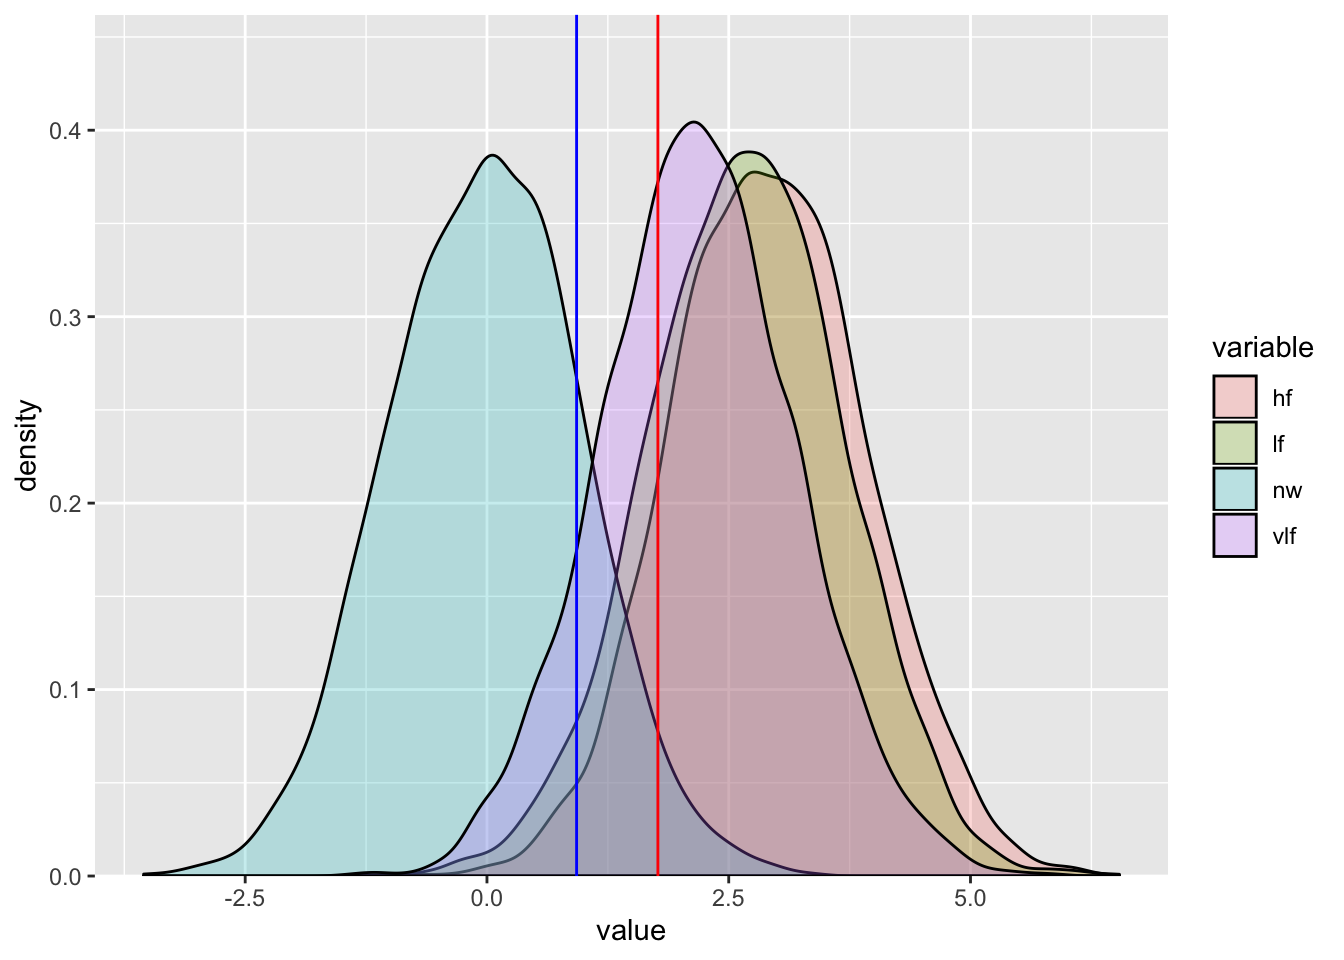
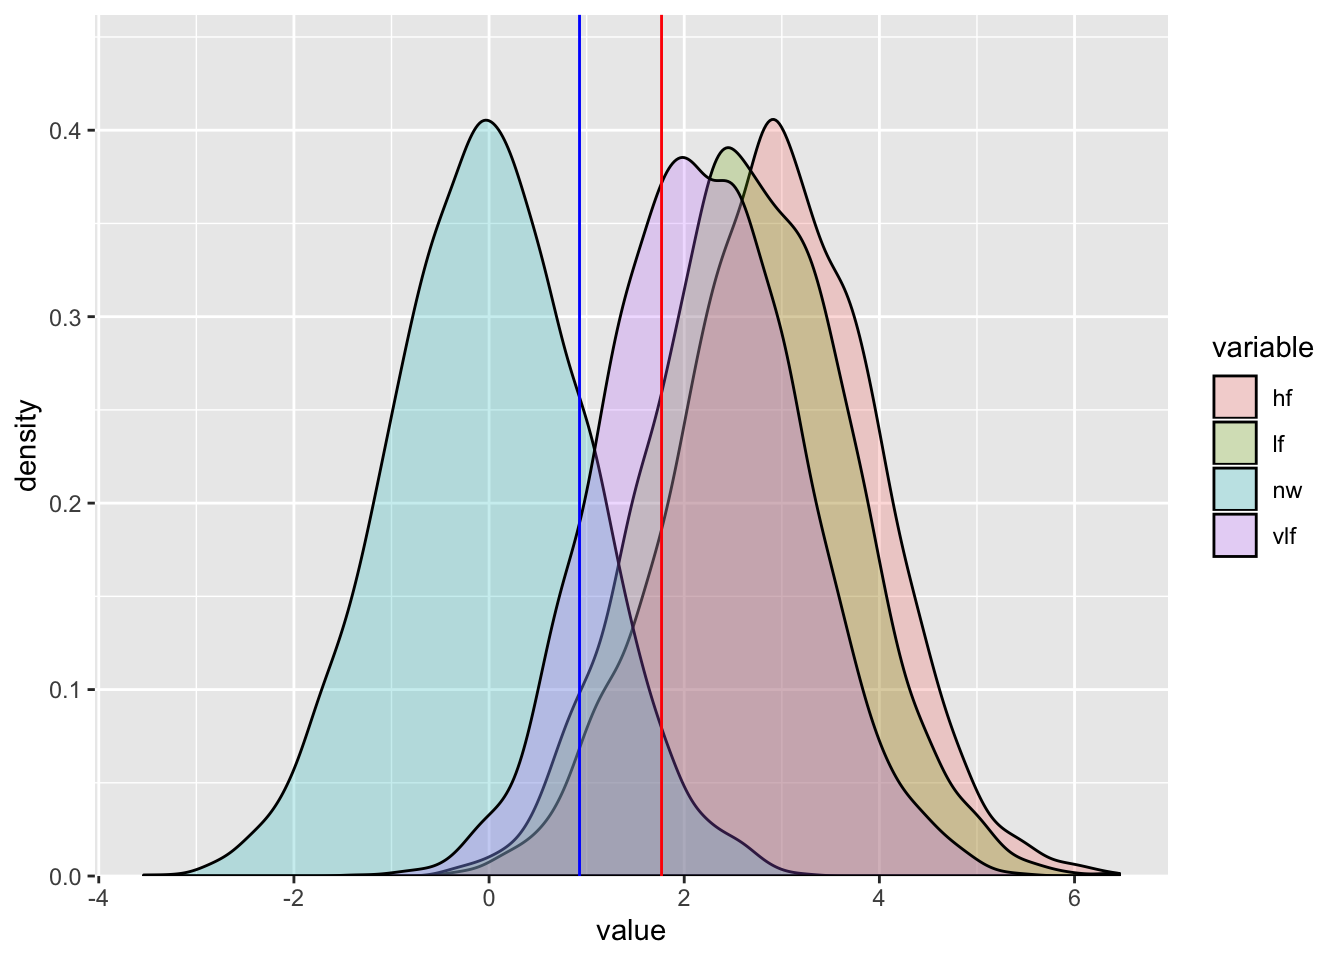
code chuck ref now works. use single commas for file ref 'imgfile.png'

diff --git a/docs/how-to-use-the-pmwg-sampler-signal-detection-theory.html b/docs/how-to-use-the-pmwg-sampler-signal-detection-theory.html
@@ -272,8 +272,20 @@ code > span.in { color: #60a0b0; font-weight: bold; font-style: italic; } /* Inf
 </table>
 <div id="signal-detection-theory" class="section level3">
 <h3><span class="header-section-number">6.1.1</span> Signal Detection Theory</h3>
-<p>We assume you have an understanding of SDT so we’ll jump to an explanation of how we can use SDT in the context of the lexical decision task. We begin with the distributions for <i>non-word</i> and <i>word</i> stimuli. You can think of these two distributions as the ‘noise’ and ‘signal’ curves, respectively. Each distribution represents the evidence for ‘word-likeness’ and they are assumed to be normally distributed. The <i>non-word</i> distribution (or the ‘noise’ distribution) has a mean of 0 and a standard deviation (SD) of 1 (Note: we could estimate SD here, but we will use 1 in this example for simplicity). The mean for each <i>word</i> distribution is unknown at this point, however, we assign a d-prime parameter (i.e. the signal-noise difference between words and non-words) to each distribution (d’<sub>hf</sub>, d’<sub>lf</sub>, d’<sub>vlf</sub>). The second parameter we denote is the criterion (C) parameter i.e. the point at which an individual responds <i>non-word</i> or <i>word</i>. - if the value is above the criterion, - if the value is below the criterion. Given these parameters, one would expect that the “word” distribution would have a higher mean than the non-words, with some partial overlap (for words and non-words which might be difficult to classify). The criterion should then be set somewhere between these means. If a person was biased to respond “word”, they’re criterion would move down. In total, in the simple SDT model, there would be 2 parameters - d’ (the mean of the word distribution) and C (the criterion). <img src="sdt.png" alt="SDT LDT illustration" /></p>
-<p><img src="bookdown-demo_files/figure-html/unnamed-chunk-1-1.png" width="672" /></p>
+<p>We assume you have an understanding of SDT so we’ll jump to an explanation of how we can use SDT in the context of the lexical decision task. We begin with the distributions for <i>non-word</i> and <i>word</i> stimuli. You can think of these two distributions as the ‘noise’ and ‘signal’ curves, respectively. Each distribution represents the evidence for ‘word-likeness’ and they are assumed to be normally distributed. The <i>non-word</i> distribution (or the ‘noise’ distribution) has a mean of 0 and a standard deviation (SD) of 1 (Note: we could estimate SD here, but we will use 1 in this example for simplicity). The mean for each <i>word</i> distribution is unknown at this point, however, we assign a d-prime parameter (i.e. the signal-noise difference between words and non-words) to each distribution (d’<sub>hf</sub>, d’<sub>lf</sub>, d’<sub>vlf</sub>). The second parameter we denote is the criterion (C) parameter i.e. the point at which an individual responds <i>non-word</i> (to the left of the Cs in Figure <a href="how-to-use-the-pmwg-sampler-signal-detection-theory.html#fig:sdtImg">6.1</a>) or <i>word</i> (to the right of the Cs in Figure <a href="how-to-use-the-pmwg-sampler-signal-detection-theory.html#fig:sdtImg">6.1</a>). Given these parameters, one would expect that the <i>word</i> distributions would have a higher mean than the non-words, with some partial overlap (for words and non-words which might be difficult to classify). The criterion should then be set somewhere between these means. If a person was biased to respond “word”, they’re criterion would move left. In total, in the simple SDT model, there would be 2 parameters - d’ (the mean of the word distribution) and C (the criterion).</p>
+<div class="figure"><span id="fig:sdtImg"></span>
+<img src="sdt.png" alt="Signal detection theory example of lexical decision task" width="100%" />
+<p class="caption">
+Figure 6.1: Signal detection theory example of lexical decision task
+</p>
+</div>
+<p><a href="how-to-use-the-pmwg-sampler-signal-detection-theory.html#fig:sdtPlot">6.2</a></p>
+<div class="figure"><span id="fig:sdtPlot"></span>
+<img src="bookdown-demo_files/figure-html/sdtPlot-1.png" alt="sdt posterior" width="672" />
+<p class="caption">
+Figure 6.2: sdt posterior
+</p>
+</div>
 <p><b>A second example might cover another SDT example with the addition of trial level covariate i.e. analytic solution NA.</b></p>
 
 </div>
